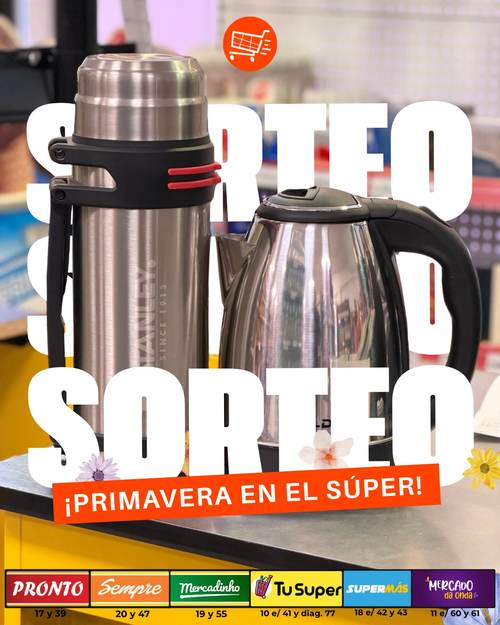
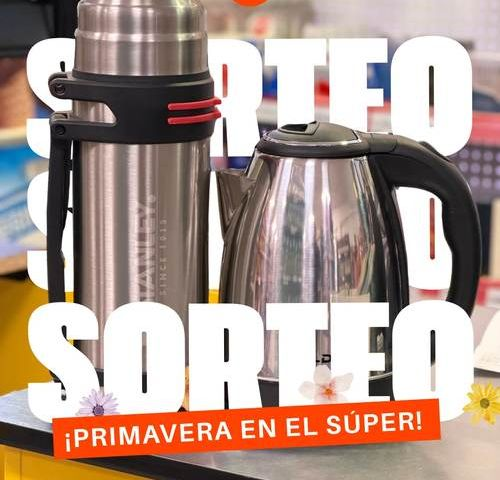
Mejora diseño: recorte de hero sin duplicados y fix de estado seleccionado
- Recorta hero.jpg para sacar el logo y la tira de direcciones que ya
  están representados por separado en la página (logo flotante y
  pastillas de sucursal), dejando solo producto + banner.
- Corrige el estado "seleccionado" de las pastillas de sucursal: el
  outline usaba el mismo color que el fondo del botón y era invisible.
  Ahora usa anillo blanco + check.
- Agrega jerarquía visual: labels de sección, bordes en inputs, badge
  "Sorteo activo" sobre el hero.

Claude-Session: https://claude.ai/code/session_01Td1jAecpeshDRrJ121QgLJ

diff --git a/app/page.tsx b/app/page.tsx
@@ -53,25 +53,25 @@ export default function SorteoPage() {
     <main className="min-h-screen bg-brand-cream flex flex-col items-center">
       {/* Hero */}
       <div className="relative w-full max-w-md">
-        <div className="relative h-64 overflow-hidden rounded-b-[2.5rem] shadow-lg">
+        <div className="relative aspect-[25/24] overflow-hidden rounded-b-[2.5rem] shadow-lg">
           <img
             src="/hero.jpg"
-            alt="Sorteo Superprecios"
+            alt="Sorteo Superprecios: Termo Stanley y pava eléctrica"
             className="w-full h-full object-cover"
           />
-          <div className="absolute inset-0 bg-gradient-to-t from-brand-cream via-transparent to-black/10" />
+          <div className="absolute inset-0 bg-gradient-to-t from-brand-cream via-transparent to-transparent" />
+          <span className="absolute top-4 left-4 bg-white/95 text-brand-orange text-xs font-bold uppercase tracking-wide px-3 py-1.5 rounded-full shadow-sm">
+            🎉 Sorteo activo
+          </span>
         </div>
 
         <div className="px-6 -mt-2 text-center">
           <img
             src="/logo.png"
             alt="Superprecios"
-            className="w-14 h-14 mx-auto -mt-8 relative z-10 drop-shadow-lg"
+            className="w-14 h-14 mx-auto -mt-8 relative z-10 rounded-full ring-4 ring-brand-cream drop-shadow-lg"
           />
-          <p className="text-brand-orange font-bold tracking-tight text-sm mt-3">
-            Primavera en el Súper
-          </p>
-          <h1 className="font-display text-brand-ink text-4xl leading-[0.95] mt-1">
+          <h1 className="font-display text-brand-ink text-4xl leading-[0.95] mt-3">
             Ganate el combo de primavera
           </h1>
           <p className="text-brand-ink/60 text-sm mt-2 px-4">
@@ -86,33 +86,38 @@ export default function SorteoPage() {
           onSubmit={handleSubmit}
           className="bg-white rounded-3xl p-6 shadow-[0_20px_45px_-15px_rgba(255,75,18,0.35)]"
         >
+          <p className="text-brand-ink/40 font-bold text-xs uppercase tracking-widest mb-2">
+            Tus datos
+          </p>
           <div className="space-y-3">
             <input
               name="nombre"
               placeholder="Nombre y apellido"
               value={form.nombre}
               onChange={handleChange}
-              className="w-full bg-brand-cream rounded-xl px-4 py-3 text-sm text-brand-ink placeholder:text-brand-ink/40 border-2 border-transparent focus:border-brand-orange focus:outline-none transition"
+              className="w-full bg-brand-cream rounded-xl px-4 py-3 text-sm text-brand-ink placeholder:text-brand-ink/40 border-2 border-black/5 focus:border-brand-orange focus:outline-none transition"
             />
             <div className="grid grid-cols-2 gap-3">
               <input
                 name="dni"
                 placeholder="DNI"
+                inputMode="numeric"
                 value={form.dni}
                 onChange={handleChange}
-                className="w-full bg-brand-cream rounded-xl px-4 py-3 text-sm text-brand-ink placeholder:text-brand-ink/40 border-2 border-transparent focus:border-brand-orange focus:outline-none transition"
+                className="w-full bg-brand-cream rounded-xl px-4 py-3 text-sm text-brand-ink placeholder:text-brand-ink/40 border-2 border-black/5 focus:border-brand-orange focus:outline-none transition"
               />
               <input
                 name="telefono"
                 placeholder="Teléfono"
+                inputMode="tel"
                 value={form.telefono}
                 onChange={handleChange}
-                className="w-full bg-brand-cream rounded-xl px-4 py-3 text-sm text-brand-ink placeholder:text-brand-ink/40 border-2 border-transparent focus:border-brand-orange focus:outline-none transition"
+                className="w-full bg-brand-cream rounded-xl px-4 py-3 text-sm text-brand-ink placeholder:text-brand-ink/40 border-2 border-black/5 focus:border-brand-orange focus:outline-none transition"
               />
             </div>
           </div>
 
-          <p className="text-brand-ink font-bold text-sm mt-5 mb-2">
+          <p className="text-brand-ink font-bold text-sm mt-6 mb-2">
             ¿En qué sucursal participás?
           </p>
           <div className="grid grid-cols-2 gap-2">
@@ -123,16 +128,21 @@ export default function SorteoPage() {
                   key={s.name}
                   type="button"
                   onClick={() => setForm({ ...form, sucursal: s.name })}
-                  style={{
-                    backgroundColor: s.bg,
-                    color: s.text,
-                    outline: selected ? `3px solid ${s.bg}` : 'none',
-                    outlineOffset: '2px',
-                  }}
-                  className={`rounded-xl py-2.5 px-2 text-sm font-bold text-center transition ${
-                    selected ? 'scale-[1.04] shadow-md' : 'opacity-80 hover:opacity-100'
+                  style={{ backgroundColor: s.bg, color: s.text }}
+                  className={`relative rounded-xl py-2.5 px-2 text-sm font-bold text-center transition ${
+                    selected
+                      ? 'ring-[3px] ring-white shadow-lg scale-[1.04]'
+                      : 'opacity-75 hover:opacity-100'
                   }`}
                 >
+                  {selected && (
+                    <span
+                      className="absolute -top-1.5 -right-1.5 w-5 h-5 rounded-full bg-white flex items-center justify-center text-[10px] shadow"
+                      style={{ color: s.bg }}
+                    >
+                      ✓
+                    </span>
+                  )}
                   {s.name}
                 </button>
               )
@@ -150,7 +160,7 @@ export default function SorteoPage() {
           </button>
 
           <p className="text-center text-brand-ink/40 text-xs mt-4">
-            Al confirmar, te llevamos a nuestro Instagram — seguinos para ver al ganador
+            🔒 Al confirmar, te llevamos a nuestro Instagram — seguinos para ver al ganador
           </p>
         </form>
       </div>
